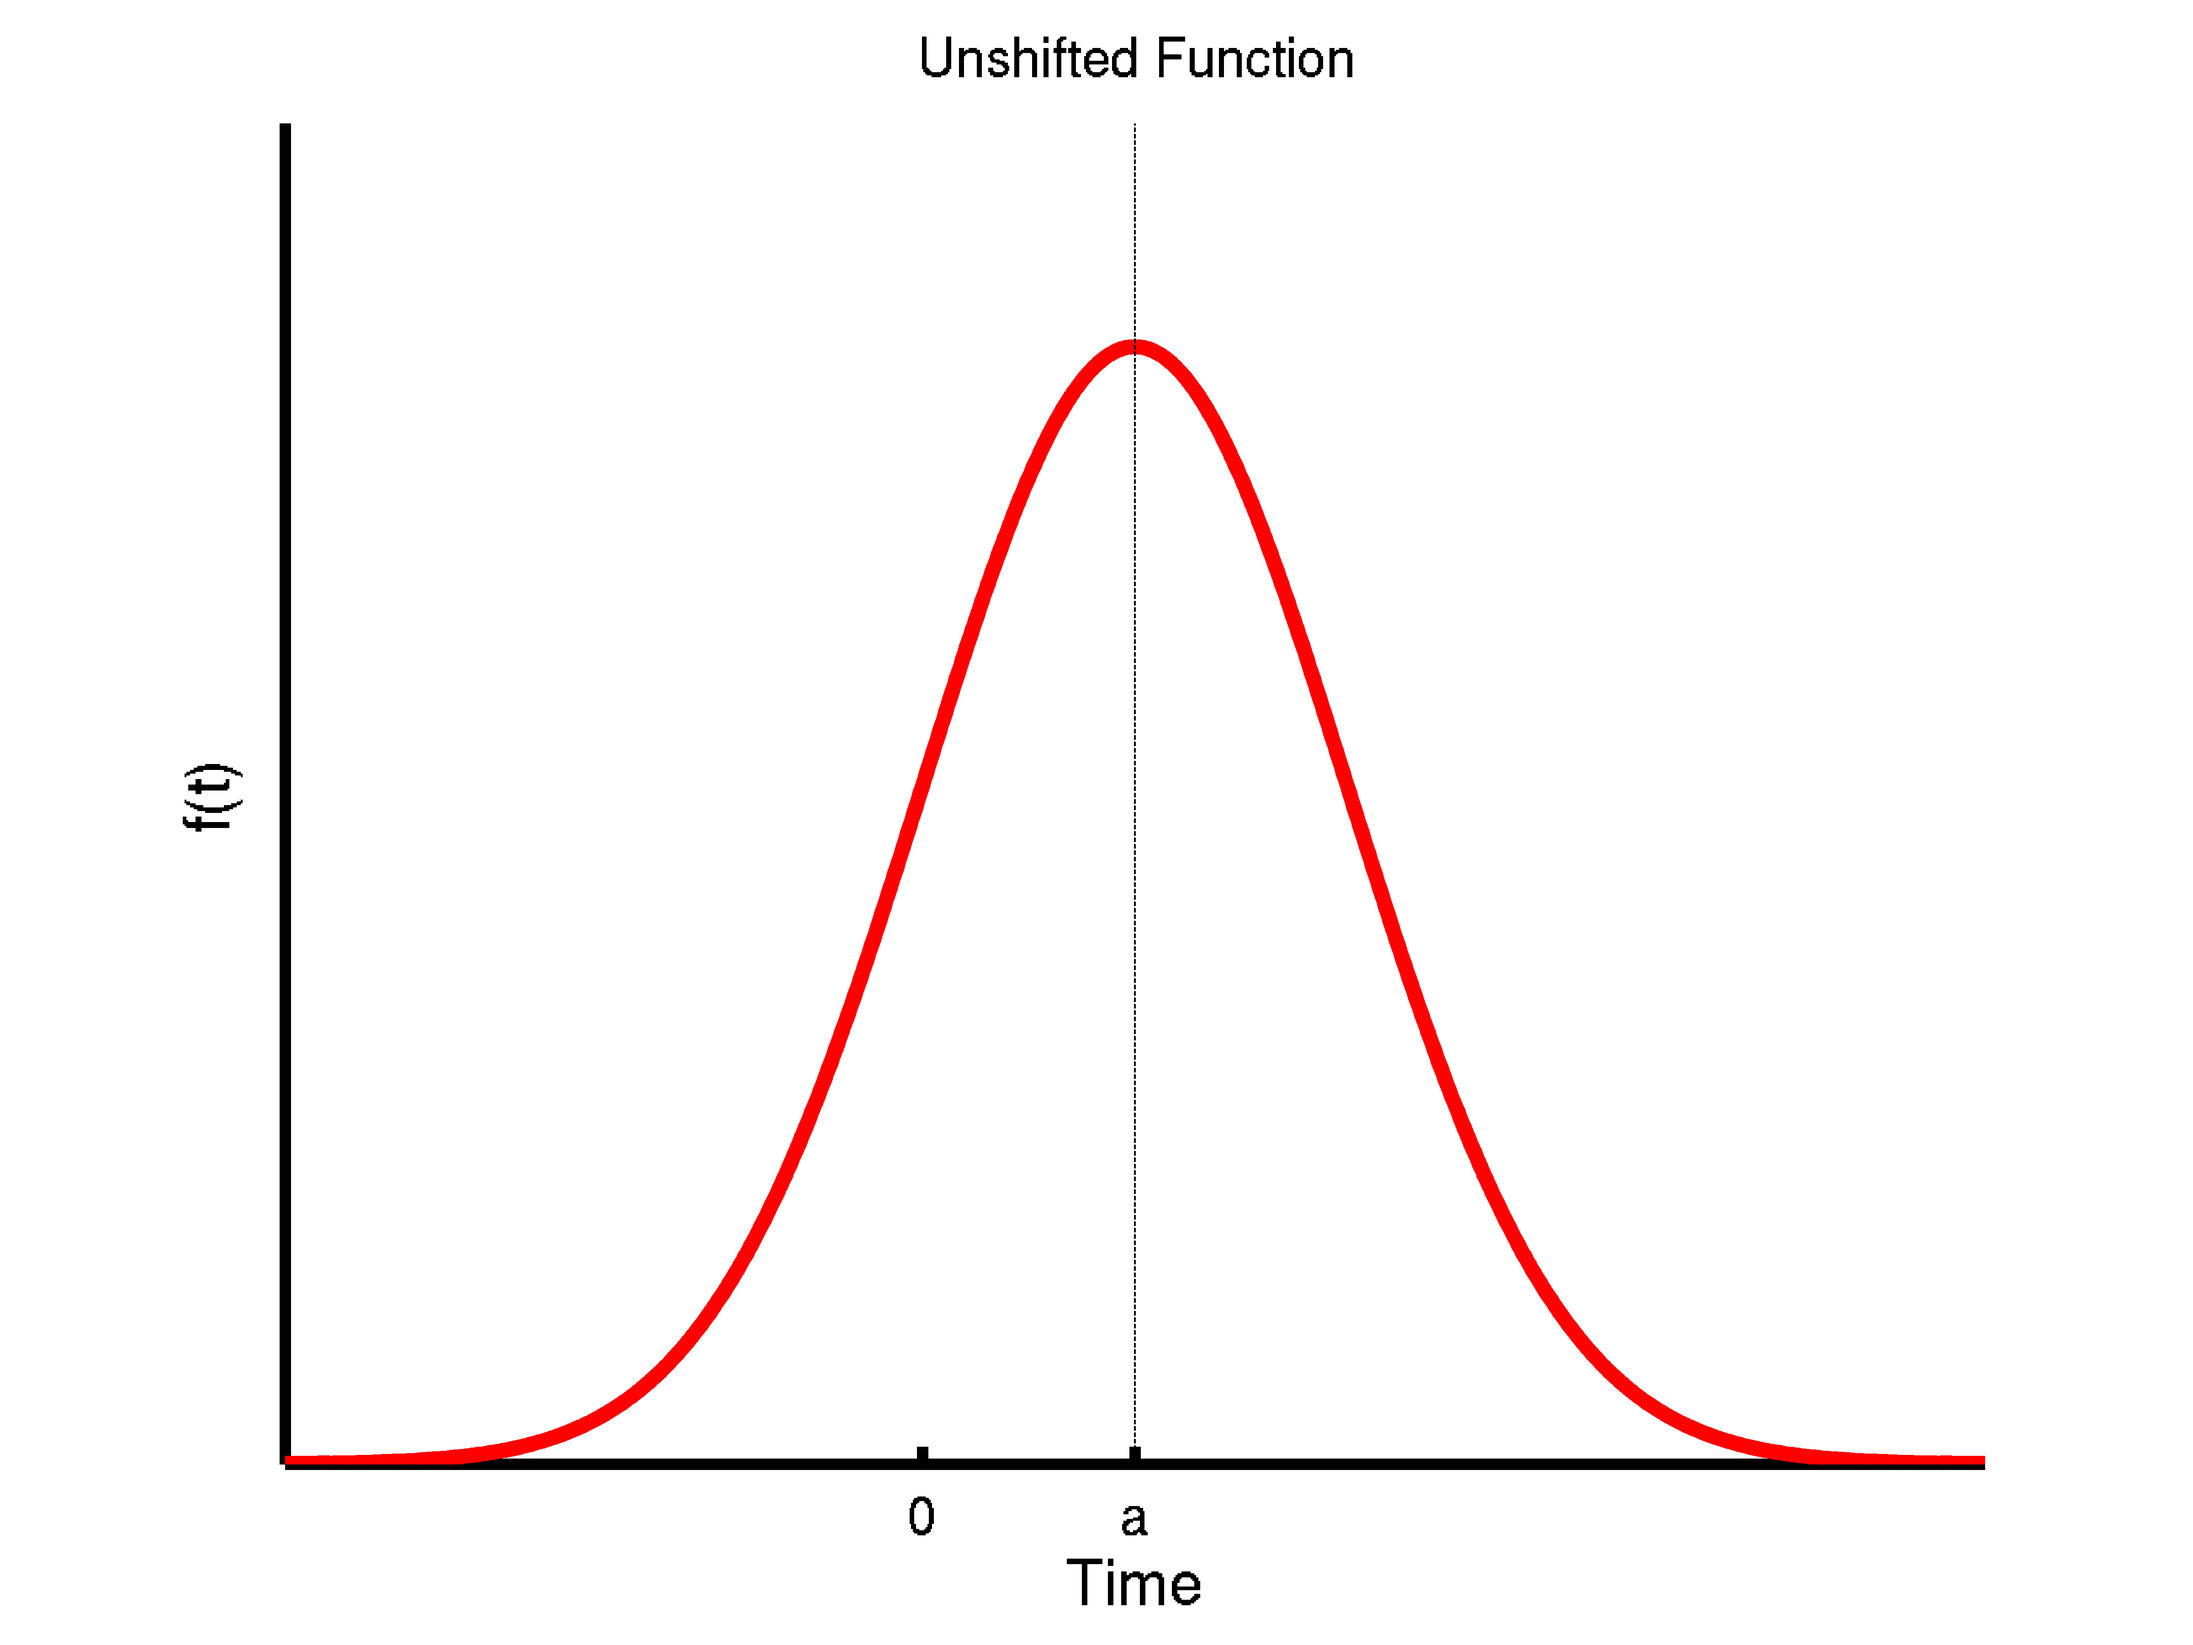
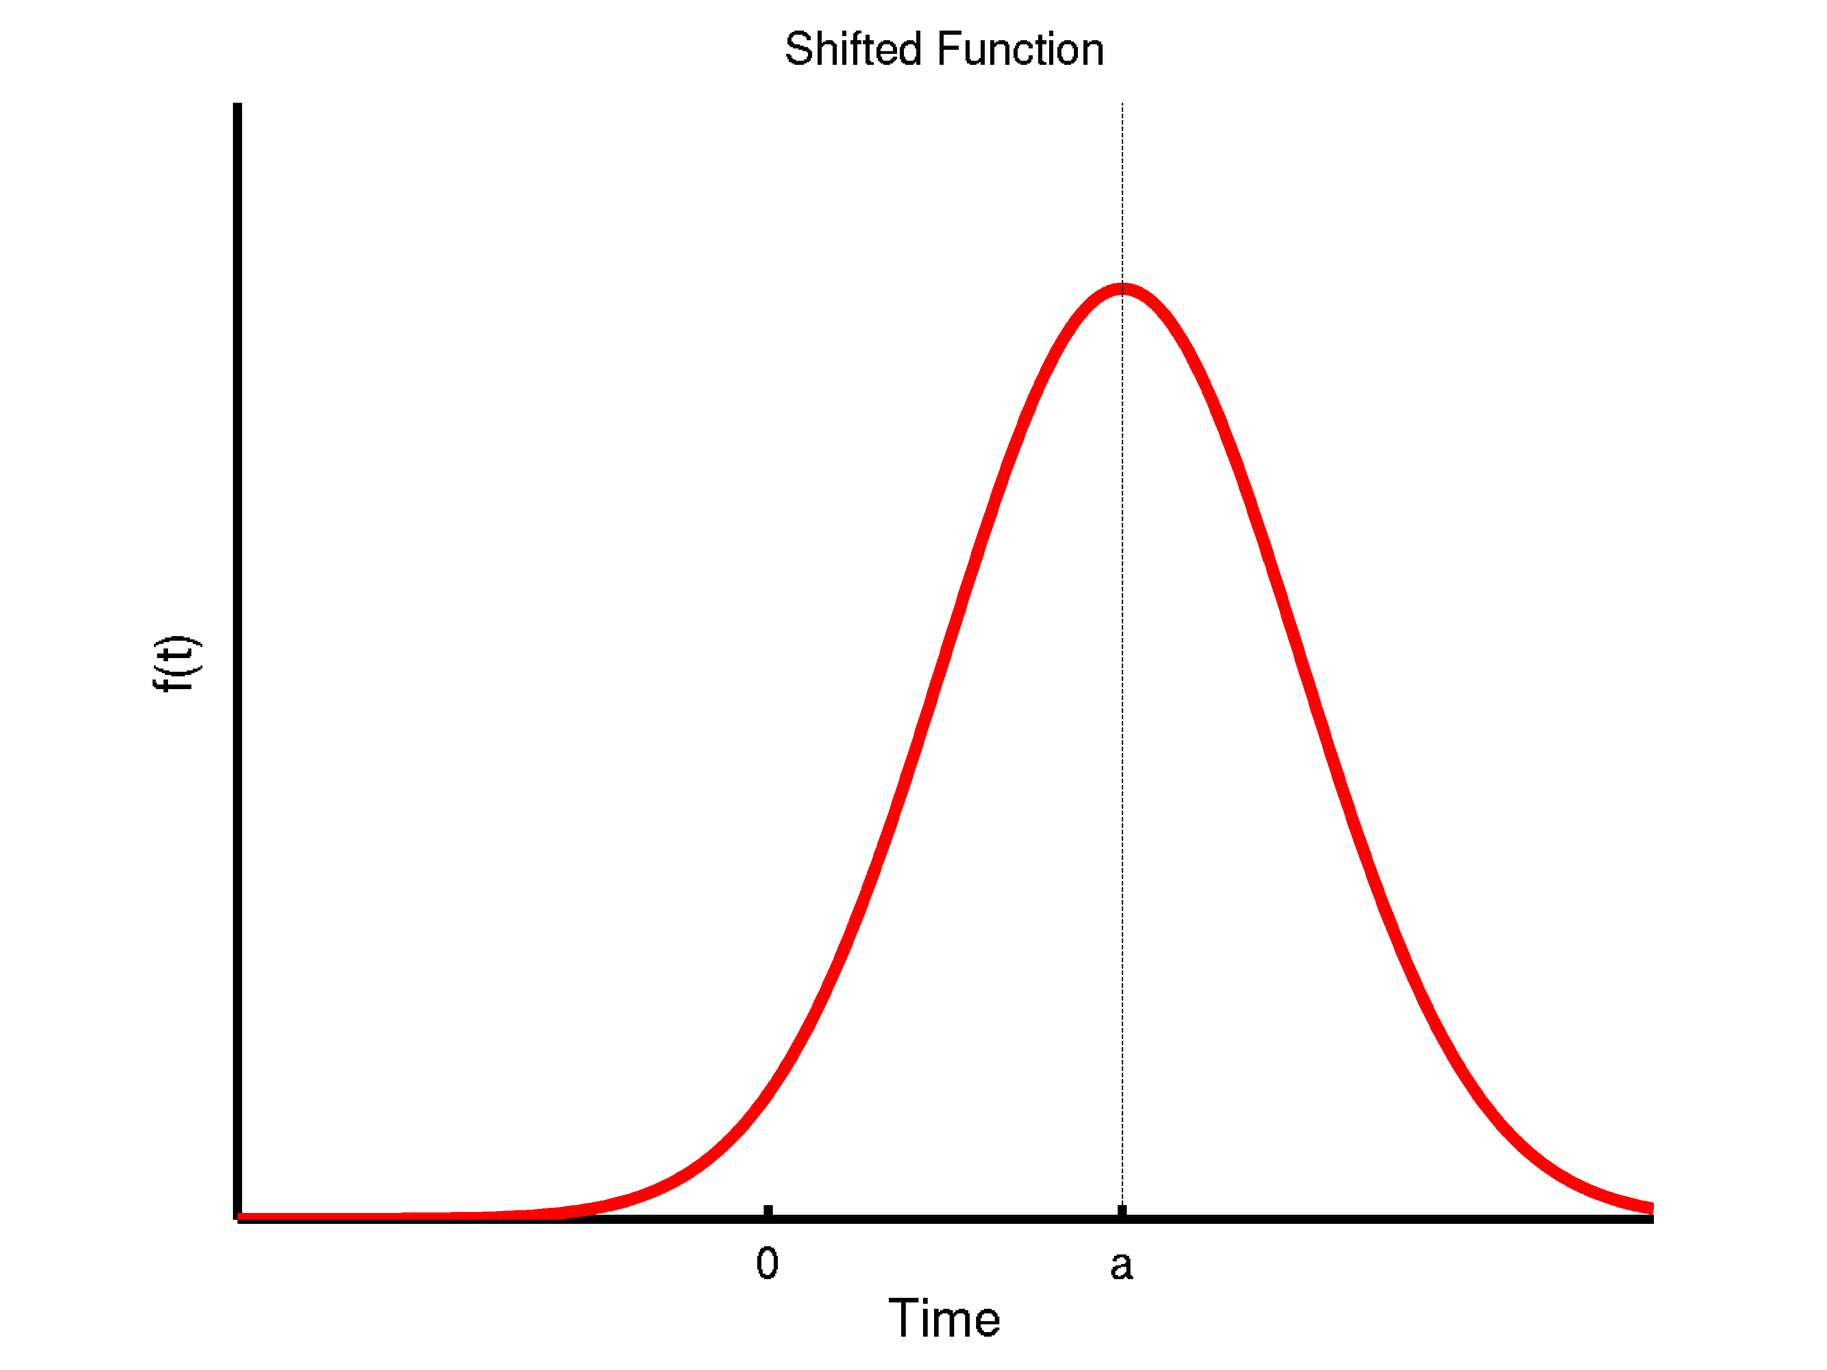
Updated the discussion on the unit step function and the laplace transform.

diff --git a/notes/unitStepFunction.tex b/notes/unitStepFunction.tex
@@ -4,7 +4,7 @@
 
 \title{Ordinary Differential Equations}
 \subtitle{The Unit Step Function}
-\date{19 Nov 2012}
+\date{4 November 2013}
 
 \begin{frame}
   \titlepage
@@ -44,15 +44,15 @@
   \begin{columns}
   
     \column{.5\textwidth}
-    If I am given $f(t)$....\\
-    \centerline{\includegraphics[width=4cm]{img/unshifted}}
+    If I am given $f(t)$....\\ [1.8em]
+    \centerline{\includegraphics[width=6cm]{img/unshifted}}
 
     \column{.5\textwidth}
     \uncover<2->
     {%
 
       I can shift it to the right by translating the domain, $f(t-a)$:\\
-      \centerline{\includegraphics[width=4cm]{img/shifted}}
+      \centerline{\includegraphics[width=6cm]{img/shifted}}
 
     }
 
@@ -64,7 +64,7 @@
 \begin{frame}
   \frametitle{The Unit Step Function}
 
-  \centerline{\includegraphics[width=3cm]{img/unitStepFunction}}
+  \centerline{\includegraphics[width=5cm]{img/unitStepFunction}}
 
   A new name for an old function:
   \begin{eqnarray*}
@@ -97,7 +97,7 @@
 \begin{frame}
   \frametitle{Shifted Version}
 
-  \centerline{\includegraphics[width=3cm]{img/unitStepAta}}
+  \centerline{\includegraphics[width=5cm]{img/unitStepAta}}
 
     The function shifted $a$ units to the right is
     \begin{eqnarray*}
@@ -166,9 +166,26 @@
    }\fi
 
   \ifnum\value{clickerQuiz}=3{%
+     Express the function
+     \begin{eqnarray*}
+       f(t) & = & 
+       \left\{
+         \begin{array}{r@{\hspace{2em}}rcl}
+           5 & t & \geq & 0 \\
+           0 & t & < & 0
+         \end{array}
+       \right.
+     \end{eqnarray*}
+     in terms of the unit step function.
 
+     \vspace{2em}
+     \begin{tabular}{ll}
+       A: & step(t) \\ [12pt]
+       B: & $5\cdot$step(t) \\ [12pt]
+       C: & step(t-5)
+     \end{tabular}
 
-  \vfill
+     \vfill
  }\fi
 \end{frame}
 }
@@ -252,8 +269,26 @@
 
   \ifnum\value{clickerQuiz}=3{%
 
+     Express the function
+     \begin{eqnarray*}
+       f(t) & = & 
+       \left\{
+         \begin{array}{r@{\hspace{2em}}rcl}
+           0 & t & \geq & 0 \\
+           1 & t & < & 0
+         \end{array}
+       \right.
+     \end{eqnarray*}
+     in terms of the unit step function.
 
-  \vfill
+     \vspace{2em}
+     \begin{tabular}{ll}
+       A: & -step(t) \\ [12pt]
+       B: & $1-$step(t) \\ [12pt]
+       C: & step(t-1)
+     \end{tabular}
+
+    \vfill
  }\fi
 \end{frame}
 }
@@ -327,7 +362,8 @@
   {
     \begin{eqnarray*}
       f(t) & = & 2(t-3)\cdot\mathrm{step}(t-3) -
-      2(t-3)\cdot\mathrm{step}(t-5) + 4\cdot\mathrm{step}(t-5).
+                 2(t-3)\cdot\mathrm{step}(t-5) + \\
+           &   & 4\cdot\mathrm{step}(t-5).
     \end{eqnarray*}
   }
 
@@ -360,7 +396,7 @@
 
   \uncover<3->
   {
-    Assume that $t\geq 0$:
+    If we assume that $t\geq 0$:
     \begin{eqnarray*}
       f(t) & = & \sin(t) - \sin(t)\mathrm{step}(t-2\pi).
     \end{eqnarray*}
@@ -404,14 +440,14 @@
   \frametitle{The Laplace Transform of the Unit Step Function}
 
   \begin{eqnarray*}
-    \laplace{f(t-a)\mathrm{step(t-a)}} & = & 
-           \int^\infty_0 f(t-a)\mathrm{step(t-a)} ~ e^{-st} ~ dt, \\
-    & = &  \int^\infty_a f(t-a) e^{-st} ~ dt, \\
-    & = & \int^\infty_a f(t-a) e^{-s(t-a+a)} ~ dt, \\
-    & = & \int^\infty_a f(t-a) e^{-s(t-a)}e^{-as} ~ dt, \\
-    & = & e^{-as} \int^\infty_a f(t-a) e^{-s(t-a)} ~ dt, \\
-    & = & e^{-as} \int^\infty_0 f(u) e^{-su} ~ du, \\
-    & = & e^{-as} \laplace{f} \\
+    \laplace{f(\redText{t-a})\mathrm{step(\redText{t-a})}} & = & 
+           \int^\infty_0 f(\redText{t-a})\mathrm{step(\redText{t-a})} ~ e^{-st} ~ dt, \\
+    & = &  \int^\infty_{\fuchsiaText{a}} f(\redText{t-a}) e^{-st} ~ dt, \\
+    & = & \int^\infty_{\fuchsiaText{a}} f(\redText{t-a}) e^{-s(\redText{t-a}+a)} ~ dt, \\
+    & = & \int^\infty_{\fuchsiaText{a}} f(\redText{t-a}) e^{-s(\redText{t-a})}\blueText{e^{-as}} ~ dt, \\
+    & = & \blueText{e^{-as}} \int^\infty_{\fuchsiaText{a}} f(\redText{t-a}) e^{-s(\redText{t-a})} ~ dt, \\
+    & = & \blueText{e^{-as}} \int^\infty_0 f(u) e^{-su} ~ du, \\
+    & = & \blueText{e^{-as}} \laplace{f} \\
   \end{eqnarray*}
 
 \end{frame}
@@ -445,9 +481,22 @@
   \frametitle{Example}
 
   \begin{eqnarray*}
-    \laplace{f} & = & e^{-2s}\frac{1}{(s-4)^2}, \\
-    \Rightarrow f & = & e^{4(t-2)}(t-2) \cdot \mathrm{step}(t-2).
+    \laplace{f} & = & e^{-2s}\frac{1}{(s-4)^2}.
   \end{eqnarray*}
+
+  \only<2->{%
+    If 
+    \begin{eqnarray*}
+      \laplace{g} & = & \frac{1}{(s-4)^2},
+    \end{eqnarray*}
+    then $g=te^{4t}$.
+
+    Which means that
+    \begin{eqnarray*}
+      \laplace{f} & = & e^{-2s}\frac{1}{(s-4)^2}, \\
+      \Rightarrow f & = & (t-2)e^{4(t-2)} \cdot \mathrm{step}(t-2).
+    \end{eqnarray*}
+  }
 
 \end{frame}
 
@@ -495,17 +544,18 @@
   \uncover<2->
   {
     \begin{eqnarray*}
-      \laplace{q} & = & \frac{1/2}{s(2s+1)} - \frac{1/2}{s(2s+1)} e^{-6s}, \\
-      & = & \half \frac{1}{s} - \half \frac{1}{s+\half}
-      - \half \frac{1}{s} e^{-6s} + \half \frac{1}{s+\half} e^{-6s}.
+      \laplace{q} & = & \blueText{\frac{1/2}{s(2s+1)}} \redText{- \frac{1/2}{s(2s+1)} e^{-6s}}, \\
+      & = & \blueText{\half \frac{1}{s} - \half \frac{1}{s+\half}}
+      \redText{- \half \frac{1}{s} e^{-6s} + \half \frac{1}{s+\half} e^{-6s}}.
     \end{eqnarray*}
   }
 
   \uncover<3->
   {
     \begin{eqnarray*}
-      q & = & \half - \half e^{-t/2} - \half\cdot\mathrm{step}(t-6)
-      + \half e^{-(t-6)/2}\cdot\mathrm{step}(t-6).
+      q & = & \blueText{\half - \half e^{-t/2}} \\
+      & & \redText{- \half\cdot\mathrm{step}(t-6)
+                   + \half e^{-(t-6)/2}\cdot\mathrm{step}(t-6)}.
     \end{eqnarray*}
   }
 

diff --git a/notes/m/step.m b/notes/m/step.m
@@ -22,7 +22,7 @@ set(gca,'YTickLabelMode','manual')
 set(gca,'YTick',[0 0.7])
 set(gca,'YTickLabel',{'0';'1'})
 
-print -dpng 'unitStepAta.png' '-r 600'
+print -dpng 'unitStepAta.png' '-r 500'
 
 
 clf
@@ -37,16 +37,17 @@ hold on
 x = -3:0.01:5;
 y = exp(-x.*x*0.5);
 plot(x,y,'r','LineWidth',4.0);
+plot([0 0],[0 2],'k--')
 
 set(gca,'XTickLabelMode','manual')
-set(gca,'XTick',[0 1])
+set(gca,'XTick',[0 2])
 set(gca,'XTickLabel',{'0';'a'})
 
 set(gca,'YTickLabelMode','manual')
 set(gca,'YTick',[0])
 set(gca,'YTickLabel',{' '})
 
-print -dpng 'unshifted.png' '-r 600'
+print -dpng 'unshifted.png' '-r 500'
 
 
 
@@ -56,23 +57,24 @@ set(gca,'LineWidth',3.0);
 set(gca,'FontSize',14);
 xlabel('Time','FontSize',16);
 ylabel('f(t)','FontSize',16);
-title('Unshifted Function');
+title('Shifted Function');
 
 hold on
 x = -3:0.01:5;
-y = exp(-(x-1).*(x-1)*0.5);
+y = exp(-(x-2).*(x-2)*0.5);
 plot(x,y,'r','LineWidth',4.0);
-plot([1 1],[0 2],'k--')
+plot([2 2],[0 2],'k--')
 
 set(gca,'XTickLabelMode','manual')
-set(gca,'XTick',[0 1])
+set(gca,'XTick',[0 2])
 set(gca,'XTickLabel',{'0';'a'})
 
 set(gca,'YTickLabelMode','manual')
 set(gca,'YTick',[0])
 set(gca,'YTickLabel',{' '})
 
-print -dpng 'shifted.png' '-r 600'
+print -dpng 'shifted.png' '-r 500'
+
 
 
 clf
@@ -97,7 +99,7 @@ set(gca,'YTickLabelMode','manual')
 set(gca,'YTick',[0 1])
 set(gca,'YTickLabel',{'0';'1'})
 
-print -dpng 'unitStepFunction.png' '-r 600'
+print -dpng 'unitStepFunction.png' '-r 500'
 
 
 clf
@@ -121,7 +123,7 @@ set(gca,'YTickLabelMode','manual')
 set(gca,'YTick',[0 2])
 set(gca,'YTickLabel',{'0';'2'})
 
-print -dpng 'stepEx1.png' '-r 600'
+print -dpng 'stepEx1.png' '-r 500'
 
 
 clf
@@ -148,7 +150,7 @@ set(gca,'YTickLabelMode','manual')
 set(gca,'YTick',[0 2])
 set(gca,'YTickLabel',{'0';'2'})
 
-print -dpng 'stepEx2.png' '-r 600'
+print -dpng 'stepEx2.png' '-r 500'
 
 
 clf
@@ -176,7 +178,7 @@ set(gca,'YTickLabelMode','manual')
 set(gca,'YTick',[-1 0 1])
 set(gca,'YTickLabel',{'-1';'0';'1'})
 
-print -dpng 'stepEx3.png' '-r 600'
+print -dpng 'stepEx3.png' '-r 500'
 
 
 clf
@@ -199,7 +201,7 @@ set(gca,'YTickLabelMode','manual')
 set(gca,'YTick',[0 4])
 set(gca,'YTickLabel',{'0';'4'})
 
-print -dpng 'stepEx4.png' '-r 600'
+print -dpng 'stepEx4.png' '-r 500'
 
 
 clf
@@ -222,7 +224,7 @@ set(gca,'YTickLabelMode','manual')
 set(gca,'YTick',[-1 0 1])
 set(gca,'YTickLabel',{'-1';'0';'1'})
 
-print -dpng 'stepEx5.png' '-r 600'
+print -dpng 'stepEx5.png' '-r 500'
 
 
 
@@ -250,4 +252,4 @@ set(gca,'YTickLabelMode','manual')
 set(gca,'YTick',[0 7])
 set(gca,'YTickLabel',{'0';'7'})
 
-print -dpng 'stepEx6.png' '-r 600'
+print -dpng 'stepEx6.png' '-r 500'

diff --git a/notes/DifferentialEquations.tex b/notes/DifferentialEquations.tex
@@ -72,8 +72,8 @@
 %\includeonly{partialFractions}
 %\includeonly{introLaplaceTransforms}
 %\includeonly{inverseLaplaceTransforms}
-\includeonly{solveDEsLaplaceTransforms}
-%\includeonly{unitStepFunction}
+%\includeonly{solveDEsLaplaceTransforms}
+\includeonly{unitStepFunction}
 %\includeonly{convolutions}
 %test
 
